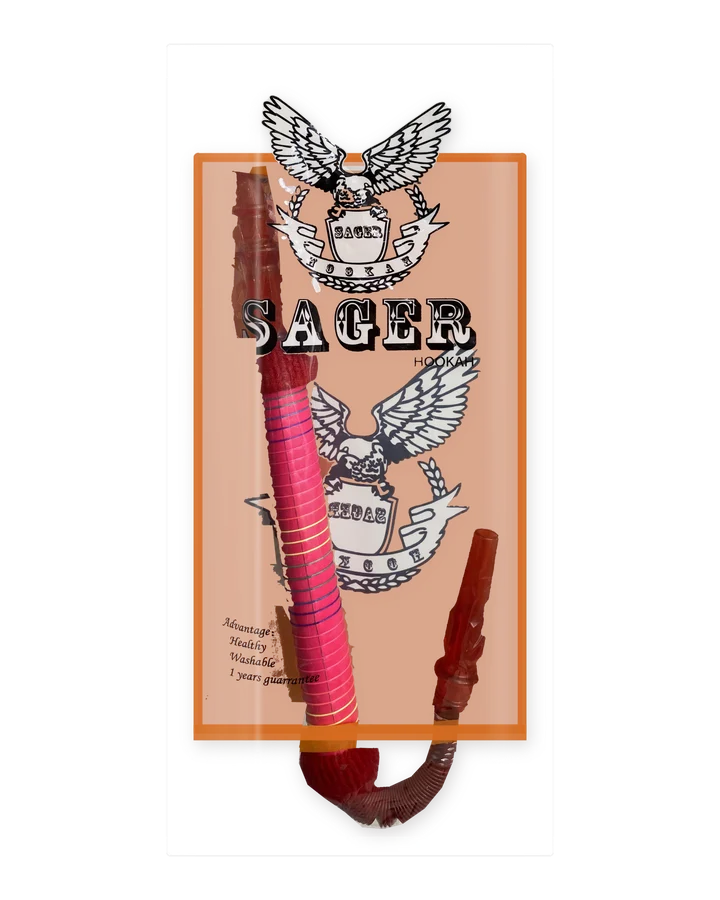
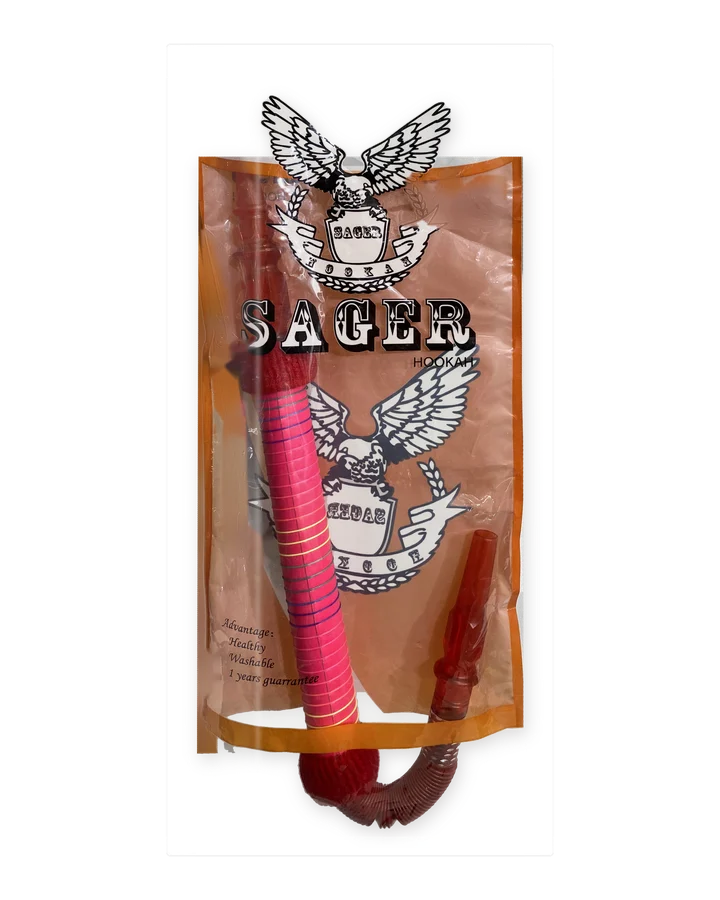
Hoses: Super Al Ameer without the gold film, Sager's whole hose through the real tint; light-blue Starbuzz photo withdrawn
Owner 2026-11-28 on the drawn-bag hoses:
- Super Al Ameer (OSS-120006): the dark gold crinkled rectangle was film behind the bag, not print. Now only the hose
  (mouthpiece, printed handle, black ribbed coil) and the bag's black print (SUPER AL AMEER, HEALTHY HOOKAH HOSE, wavy
  lines, MADE IN JORDAN) stay. Paragraph and warning lines that glare broke into half-words are dropped whole.
- Sager (OSS-120028): the flat redrawn orange panel hid most of the hose. The card is now the photo itself, the bag's
  translucent tint over the real hose, fittings and bend; shop background seen through it is filled with the tint.
- Starbuzz light blue (OSS-120032): never use counter shots. The recolour sampled from one is removed (files, version,
  recolour_lb.py, its cfg); hose-fix-2026-11-27.sql emptied; hose-fix-2-2026-11-28.sql (no-op live today) undoes the old
  file's UPDATE if it is ever run; photos_hoses.py never publishes a counter shot. It shows "Photo coming soon".
Tools: cut.py opt-in keys inpaint, dark_band, ink_extra adapt/close, glyph_copy, ink_holes, patch, drop_tint,
drop_bright C, speck_zones (IMG_0569 re-renders byte-identical). Design review x2, breaker: nothing blocking. Not deployed.

Claude-Session: https://claude.ai/code/session_01E9pd4ZHmcwx6MYD1V7M6Jz

Changed region(s): [[0.2444, 0.0933, 0.7333, 0.9333], [0.4278, 0.8711, 0.4583, 0.9022]]

diff --git a/store/tools/catalog/hose_drawnbag/cut.py b/store/tools/catalog/hose_drawnbag/cut.py
@@ -5,6 +5,7 @@ Classes, all against the wall plate from plate.py (full resolution, in the bag-c
   ink     : dark print (black text, outlines)
   white   : opaque white/pale print, only inside cfg 'white' boxes: bright, smooth (opened), holes filled
   band    : pale hoses, inside cfg 'band' polylines: brighter than the wall
+  dark_band: dark hoses over dark foil, inside cfg 'dark_band' corridors: near-black neutral pixels, closed over the ribs
   fill    : cfg polygons taken whole (opaque)
   clear   : cfg polygons of clear plastic parts: known-background alpha, colour un-mixed (translucent)
   drop    : cfg polygons removed
@@ -51,6 +52,29 @@ def cut(name):
     I, B, inside, g = load(name, c.get("bagspec"))   # bagspec: {top, bottom, l:[t,b], r:[t,b]} as bags.json, for a photo not in it
     x0, y0, x1, y1 = c["crop"]
     I, B, inside = I[y0:y1, x0:x1], B[y0:y1, x0:x1], inside[y0:y1, x0:x1]
+    for ip in c.get("inpaint", []):   # shop background seen through a tinted print (a shadow, the wall rail): filled from the tint around it
+        Li = lab(I); Ci = np.hypot(Li[..., 1] - 128, Li[..., 2] - 128); Hi = np.degrees(np.arctan2(Li[..., 2] - 128, Li[..., 1] - 128)) % 360
+        z = poly_mask(I.shape[:2], [ip["poly"]])
+        z &= (Li[..., 0] >= ip.get("Lmin", 0)) & (Li[..., 0] <= ip.get("Lmax", 255)) & (Ci <= ip.get("Cmax", 255))
+        if ip.get("keep_red"):   # the red hose behind stays
+            z &= ~((Ci > ip["keep_red"]) & ((Hi < 45) | (Hi > 330)))
+        z = cv2.dilate(z.astype(np.uint8), disk(ip.get("grow", 3)))
+        if ip.get("flat"):   # a clean tint: the median colour of the tinted film around it, with the film's own fine grain kept
+            w = (~(cv2.dilate(z, disk(4)) > 0) & (Ci > ip["flat"]) & (Li[..., 0] > 90)).astype(np.float32)   # tinted film only
+            sg = ip.get("sigma", 35)
+            base = cv2.GaussianBlur(I * w[..., None], (0, 0), sg) / np.maximum(cv2.GaussianBlur(w, (0, 0), sg), 1e-3)[..., None]
+            grain = I - cv2.GaussianBlur(I, (0, 0), 3)
+            k = cv2.GaussianBlur((z > 0).astype(np.float32), (0, 0), ip.get("soft", 3))[..., None]
+            I = I * (1 - k) + (base + 0.5 * grain) * k
+        elif ip.get("ink_L"):   # next to black print: fill as if the print were not there, then put the print back
+            z = (z > 0) & ~(cv2.dilate((Li[..., 0] < ip["ink_L"] * 0.4).astype(np.uint8), disk(1)) > 0) & ~(Li[..., 0] > 200)
+            z = z.astype(np.uint8)
+            near = (cv2.dilate(z, disk(40)) > 0) & (Li[..., 0] < ip["ink_L"]) & ~(z > 0)
+            near = cv2.dilate(near.astype(np.uint8), disk(2)) > 0
+            J = cv2.inpaint(np.clip(I, 0, 255).astype(np.uint8), ((z > 0) | near).astype(np.uint8), ip.get("r", 15), cv2.INPAINT_TELEA).astype(np.float32)
+            I = np.where((z > 0)[..., None], J, I)
+        else:
+            I = cv2.inpaint(np.clip(I, 0, 255).astype(np.uint8), z, ip.get("r", 15), cv2.INPAINT_TELEA).astype(np.float32)
     LI, LB = lab(I), lab(B)
     L = LI[..., 0]; dL = L - LB[..., 0]
     chI = np.hypot(LI[..., 1] - 128, LI[..., 2] - 128); chB = np.hypot(LB[..., 1] - 128, LB[..., 2] - 128)
@@ -89,14 +113,40 @@ def cut(name):
     ink = big | (small_cc(ink, 12) & near)
     for ie in c.get("ink_extra", []):   # print over a shadowed stretch of wall: plain darkness test
         z = poly_mask(sh, [ie["poly"]])
-        ik = (cv2.GaussianBlur(L, (0, 0), 0.8) < ie.get("L", 110)) & z & (chI < ie.get("C", 30))
-        ink |= small_cc(cv2.morphologyEx(ik.astype(np.uint8), cv2.MORPH_OPEN, disk(1)) > 0, ie.get("min", 60))
+        Ls = cv2.GaussianBlur(L, (0, 0), 0.8)
+        if ie.get("adapt"):   # glare over the print: a letter is darker than the film right around it, not dark outright
+            sg, k = ie["adapt"]
+            ik = (Ls < cv2.GaussianBlur(L, (0, 0), sg) - k) & z & (chI < ie.get("C", 30))
+        else:
+            ik = (Ls < ie.get("L", 110)) & z & (chI < ie.get("C", 30))
+        ik = cv2.morphologyEx(ik.astype(np.uint8), cv2.MORPH_OPEN, disk(1)) > 0
+        if ie.get("close"):   # glare breaks a letter's stroke into specks: join them back (inside the zone only)
+            ik = (cv2.morphologyEx(ik.astype(np.uint8), cv2.MORPH_CLOSE, disk(ie["close"])) > 0) & z
+        ink |= small_cc(ik, ie.get("min", 60))
     if c.get("ink_within"):
         ink &= poly_mask(sh, c["ink_within"])
     if c.get("ink_thin"):   # only pen-width ink here (a broad dark patch is shadow, not print)
         z = poly_mask(sh, c["ink_thin"])
         thick = cv2.dilate(cv2.morphologyEx(ink.astype(np.uint8), cv2.MORPH_OPEN, disk(9)), disk(1)) > 0
         ink &= ~(thick & z)
+
+    for pt in c.get("patch", []):   # stray print on the film over a ribbed hose: the hose's own ribs from just above, feathered
+        a0, b0, a1, b1 = pt["box"]; dy = pt.get("dy", -40)
+        k = np.zeros(sh, np.float32); k[b0:b1, a0:a1] = 1; k = cv2.GaussianBlur(k, (0, 0), 4)[..., None]
+        I = I * (1 - k) + np.roll(I, -dy, axis=0) * k
+    for g in c.get("glyph_copy", []):   # a letter lost under glare, restored from the same letter printed on the same line
+        if g.get("clear"):
+            a0, b0, a1, b1 = g["clear"]; ink[b0:b1, a0:a1] = False
+        a0, b0, a1, b1 = g["src"]; dx, dy = g["to"]
+        m = ink[b0:b1, a0:a1].copy()
+        dst = np.s_[b0 + dy:b1 + dy, a0 + dx:a1 + dx]
+        ink[dst] |= m
+        I[dst] = np.where(m[..., None], I[b0:b1, a0:a1], I[dst])
+    for z in c.get("ink_holes", []):   # a solid printed shape (a teardrop) whose middle is lost under glare
+        zm = poly_mask(sh, [z["poly"]])
+        ink |= (cv2.morphologyEx((ink & zm).astype(np.uint8), cv2.MORPH_CLOSE, disk(z.get("close", 6))) > 0) & zm
+        hl = nd.binary_fill_holes(ink & zm) & ~ink & zm
+        ink |= hl & ~small_cc(hl, z.get("max", 3000))
 
     white = np.zeros(sh, bool)
     for box in c.get("white", []):
@@ -233,13 +283,31 @@ def cut(name):
             print("tube widths", [round(w) for w in c["_w"]], "->", round(W_))
         band |= m
 
+    if c.get("dark_band"):   # dark hose over a dark printed/foil backing: hand corridors, only the near-black neutral pixels in them
+        o = c.get("dark_band_opts", {})
+        Lb, Cb = cv2.GaussianBlur(L, (0, 0), 1.5), cv2.GaussianBlur(chI, (0, 0), 2)
+        cor = np.zeros(sh, bool); dk = np.zeros(sh, bool)
+        for b in c["dark_band"]:
+            z = poly_mask(sh, [b["pts"]], width=int(b["w"])); cor |= z
+            dk |= z & (Lb < b.get("L", 45)) & (Cb < b.get("C", 8))
+        dk = cv2.morphologyEx(dk.astype(np.uint8), cv2.MORPH_CLOSE, disk(o.get("close", 9))) > 0
+        hl = nd.binary_fill_holes(dk) & ~dk
+        dk |= hl & ~small_cc(hl, o.get("hole", 6000))
+        dk = cv2.morphologyEx(dk.astype(np.uint8), cv2.MORPH_OPEN, disk(o.get("open", 6))) > 0
+        dk = small_cc(dk, o.get("min", 4000)) & cor
+        band |= cv2.GaussianBlur(dk.astype(np.float32), (0, 0), 3) > 0.5
+
     fill = poly_mask(sh, c["fill"]) if c.get("fill") else np.zeros(sh, bool)
     drop = poly_mask(sh, c["drop"]) if c.get("drop") else np.zeros(sh, bool)
     for db in c.get("drop_bright", []):   # wall/film seen through the bag next to a dark hose: drop only what is bright
         z = poly_mask(sh, [db["poly"]])
         br = cv2.GaussianBlur(L, (0, 0), db.get("blur", 3)) > db.get("L", 140)
+        if "C" in db:   # clear film only: the tinted print and a pale hose keep their colour
+            br &= cv2.GaussianBlur(chI, (0, 0), db.get("blur", 3)) < db["C"]
         br = cv2.morphologyEx(br.astype(np.uint8), cv2.MORPH_OPEN, disk(db.get("open", 4))) > 0
         drop |= z & br
+    for dt in c.get("drop_tint", []):   # dark foil showing beside a black hose: whatever carries its tint goes
+        drop |= poly_mask(sh, [dt["poly"]]) & (cv2.GaussianBlur(chI, (0, 0), 2) > dt["C"])
     if c.get("fill_noborder") and c.get("fill"):   # the bag's own orange border is redrawn; keep it out of hose fills
         fill &= ~((chI > 40) & (hue > 45) & (hue < 68))
     solid = (colour | ink | white | band | fill) & area & ~drop
@@ -336,6 +404,9 @@ def cut(name):
         keep = small_cc(rgba[..., 3] > 60, c["min_cc"])
         keep = cv2.dilate(keep.astype(np.uint8), disk(3)) > 0
         rgba[~keep, 3] = 0
+    for mz in c.get("speck_zones", []):   # loose specks in one area only (letters elsewhere can be small)
+        z = poly_mask(rgba.shape[:2], [mz["poly"]]); a = rgba[..., 3] > 60
+        rgba[z & a & ~small_cc(a, mz["min"]), 3] = 0
     for dp in c.get("drop_final", []):   # final-frame polygons removed (after any warp)
         rgba[poly_mask(rgba.shape[:2], [dp]), 3] = 0
     Image.fromarray(rgba, "RGBA").save(OUT / f"{name}.png")

diff --git a/store/tools/catalog/photos_hoses.py b/store/tools/catalog/photos_hoses.py
@@ -25,8 +25,8 @@ def main(crops: Path, only: set[str] | None = None):
         for photo, colour, _ in shots:
             if only and photo not in only:
                 continue
-            if not (crops / f"{photo}.png").exists() and not photo.startswith("IMG_"):
-                print(f"skipped {name} {colour}: no cut-out of {photo} (no photo of its own yet)")
+            if not photo.startswith("IMG_"):   # owner rule 2026-11-28: never a counter shot (hoses on top of the glass counter)
+                print(f"skipped {name} {colour}: {photo} is a counter shot, never published (no photo of its own yet)")
                 continue
             im = Image.open(crops / f"{photo}.png").convert("RGBA")
             if im.size != (photos.W, photos.H):
